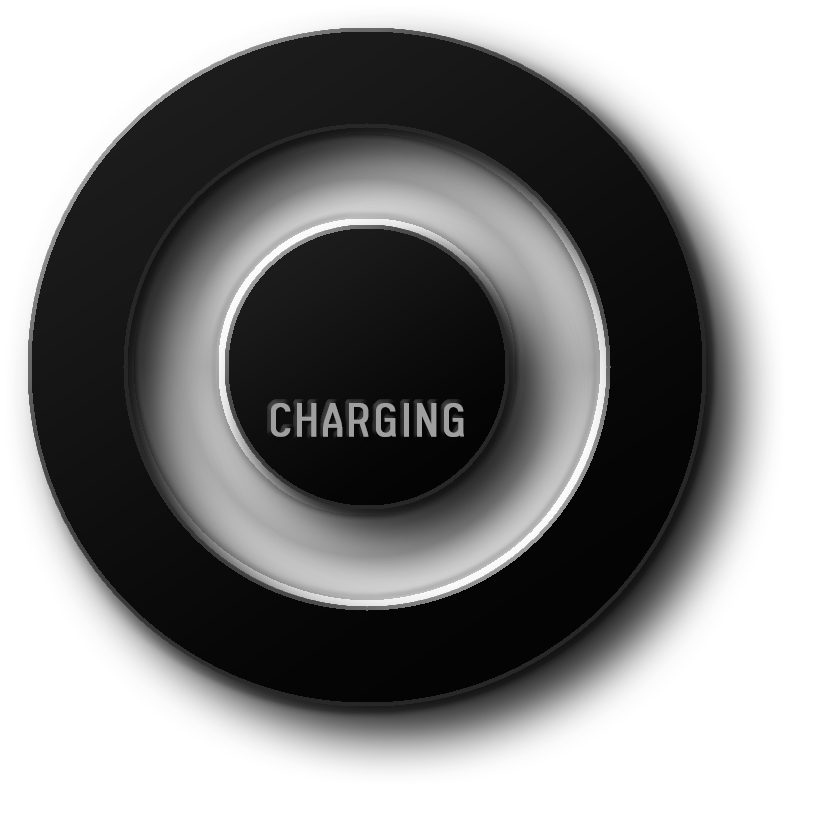
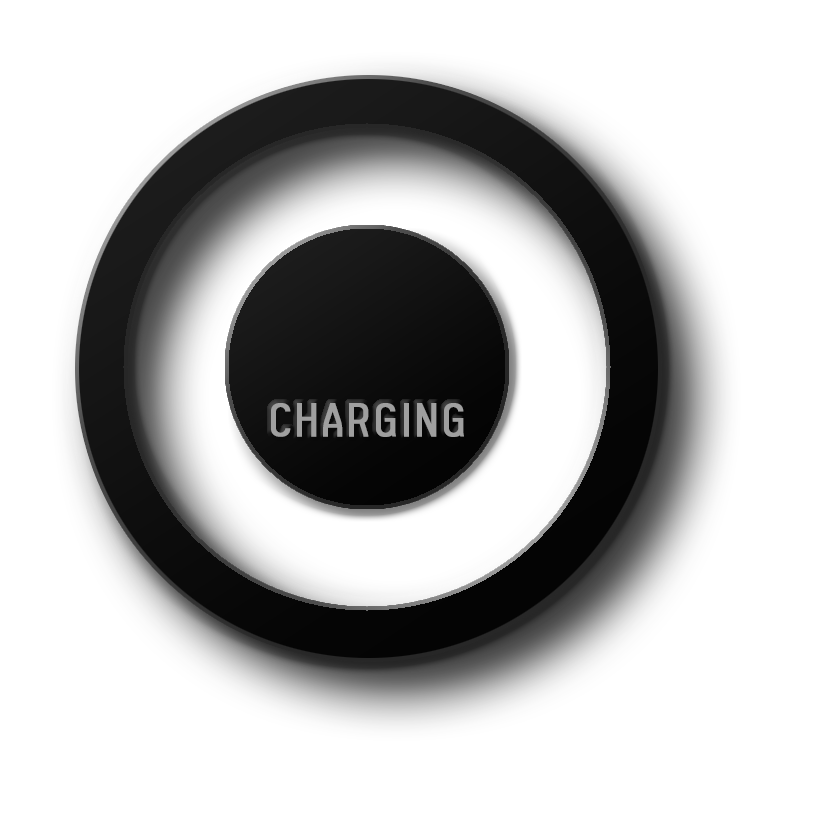
REFACTOR backend-initiated communication to be widget/feature agnostic. Backend now only forwards TwitchEvents, all widget specific business-logic resides in the widgets themselves.

diff --git a/src/main/resources/static/progress/progress.js b/src/main/resources/static/progress/progress.js
@@ -5,6 +5,8 @@ const STEP_SIZE = 2;
 
 let targetProgress = 0;
 let currentVisualProgress = 0;
+let redeemProgressAmount = 10;
+let bitsProgressAmount = 1;
 
 function updateProgress() {
     if (currentVisualProgress === targetProgress) return;
@@ -18,21 +20,25 @@ function onDashBoardRequest(commandObj) {
     if (commandObj.cmd === 'progress') {
         targetProgress = commandObj.progress !== undefined ? commandObj.progress : targetProgress + commandObj.progressChange;
     }
+    if (commandObj.cmd === 'progressConfig') {
+        redeemProgressAmount = commandObj.redeemProgressAmount;
+        bitsProgressAmount = commandObj.bitsProgressAmount;
+    }
 }
 
 function onTwitchRewardRedeemed(redemptionEvent) {
     if (redemptionEvent.title === 'Charge!') {
-        targetProgress += 10;
+        targetProgress += redeemProgressAmount;
     }
 }
 
 function onTwitchBitsReceived(bitsEvent) {
-    targetProgress+= bitsEvent.bitsUsed;
+    targetProgress+= bitsEvent.bitsUsed*bitsProgressAmount;
 }
 
 function onBackendConnect(connection) {
     connection.subscribe('/topic/object', onDashBoardRequest);
-    connection.subscribe('/topic/twitchRewardRedemptions', onTwitchRewardRedeemed);
+    connection.subscribe('/topic/twitchRewardRedeemed', onTwitchRewardRedeemed);
     connection.subscribe('/topic/twitchBitsReceived', onTwitchBitsReceived);
 }
 

diff --git a/src/main/resources/static/progress/progressCP.html b/src/main/resources/static/progress/progressCP.html
@@ -20,12 +20,19 @@
         <form>
             <table>
                 <tr>
-                    <td>Bits</td>
+                    <td>Redeem Progress</td>
+                    <td><input type="text" id="redeemProgressAmount" value="10" style="width: 70px;"></td>
+                    </tr><tr>
+                    <td>Bits Progress</td>
+                    <td><input type="text" id="bitsProgressAmount" value="1" style="width: 70px;"></td>
+                    </tr><tr>
+                    <td>Progress</td>
                     <td><input type="text" id="progressValue" value="50" style="width: 70px;"></td>
                 </tr>
             </table>
             <button id="setProgress">set progress</button>
-            <button id="changeProgress">change progress</button>
+            <button id="changeProgress">change progress</button><br>
+            <button id="applyConfiguration">apply configuration</button>
         </form>
     </body>
 </html>

diff --git a/src/main/resources/static/progress/progressCP.js b/src/main/resources/static/progress/progressCP.js
@@ -14,6 +14,14 @@ function changeProgress() {
     });
 };
 
+function applyConfiguration() {
+    send({
+        cmd: 'progressConfig', 
+        redeemProgressAmount: parseInt($("#redeemProgressAmount").val()), 
+        bitsProgressAmount: parseInt($("#bitsProgressAmount").val())  
+    });
+}
+
 function send(object) {
     connection.sendObject("/app/object", object);
 }
@@ -25,4 +33,5 @@ $(function () {
     });
     $( "#setProgress" ).click(function() { setProgress(); });
     $( "#changeProgress" ).click(function() { changeProgress(); });
+    $( "#applyConfiguration" ).click(function() { applyConfiguration(); });
 });

diff --git a/src/main/resources/static/raidVote/raidVote.js b/src/main/resources/static/raidVote/raidVote.js
@@ -121,8 +121,19 @@ function onMessageReceived(message) {
     }
 }
 
+let validChannelNameRegEx = new RegExp('[A-Za-z0-9_]{3,25}');
+
+function onTwitchRewardRedeemed(redemptionEvent) {
+    if (redemptionEvent.title === 'RaidVote') {
+        if (validChannelNameRegEx.test(redemptionEvent.userInput)) {
+            addChannelVotes(redemptionEvent.userInput, 1);
+        }
+    }
+}
+
 function onBackendConnect(connection) {
     connection.subscribe('/topic/object', onMessageReceived);
+    connection.subscribe('/topic/twitchRewardRedeemed', onTwitchRewardRedeemed);
 }
 
 $(function () {

diff --git a/src/main/resources/static/wiggles/wiggles.js b/src/main/resources/static/wiggles/wiggles.js
@@ -27,8 +27,15 @@ function onMessageReceived(message) {
             changeWiggles(message.change);
 }
 
+function onTwitchRewardRedeemed(redemptionEvent) {
+    if (redemptionEvent.title === 'Wiggle your back') {
+        changeWiggles(1);
+    }
+}
+
 function onBackendConnect(connection) {
     connection.subscribe('/topic/object', onMessageReceived);
+    connection.subscribe('/topic/twitchRewardRedeemed', onTwitchRewardRedeemed);
 }
 
 $(function () {

diff --git a/src/main/resources/static/chaosSweaper/board.js b/src/main/resources/static/chaosSweaper/board.js
@@ -200,8 +200,13 @@ function onCommandReceived(commandObj) {
     }
 }
 
+function onTwitchRewardRedeemed(redemptionEvent) {
+    voteForAction(redemptionEvent.title);
+}
+
 function onBackendConnect(connection) {
     connection.subscribe('/topic/object', onCommandReceived);
+    connection.subscribe('/topic/twitchRewardRedeemed', onTwitchRewardRedeemed);
 }
 
 $(function () {

diff --git a/src/main/resources/static/shillBoard/guess.js b/src/main/resources/static/shillBoard/guess.js
@@ -77,8 +77,13 @@ function onMessageReceived(message) {
     }
 }
 
+function onTwitchBitsReceived(bitsEvent) {
+    guess(bitsEvent.bitsUsed);
+}
+
 function onBackendConnect(connection) {
     connection.subscribe('/topic/object', onMessageReceived);
+    connection.subscribe('/topic/twitchBitsReceived', onTwitchBitsReceived);
 }
 
 $(function () {

diff --git a/src/main/resources/static/progress/progress.css b/src/main/resources/static/progress/progress.css
@@ -9,7 +9,7 @@
     position: absolute;
     width: 835px;
     height: 830px;
-    background-image: url('Loading2.png');
+    background-image: url('Loading.png');
     z-index: 3;
 }
 

diff --git a/src/main/java/net/erstschlag/playground/games/board/generic/GenericBoardService.java b/src/main/java/net/erstschlag/playground/games/board/generic/GenericBoardService.java
@@ -19,46 +19,12 @@ public class GenericBoardService {
 
     @EventListener
     public void rewardRedeemed(RewardRedeemedEvent twitchEvent) {
-        webSocket.convertAndSend("/topic/twitchRewardRedemptions", twitchEvent);
+        webSocket.convertAndSend("/topic/twitchRewardRedeemed", twitchEvent);
     }
     
     @EventListener
     public void bitsReceived(ChannelBitsEvent twitchEvent) {
         webSocket.convertAndSend("/topic/twitchBitsReceived", twitchEvent);
     }
-    
-    @EventListener
-    public void boardAction(RewardRedeemedEvent twitchEvent) {
-        webSocket.convertAndSend("/topic/object", "{\"cmd\":\"chaosBoardAction\", \"action\":\"" + twitchEvent.getTitle() + "\"}");
-    }
 
-    @EventListener
-    public void bitsEvent(ChannelBitsEvent twitchEvent) {
-        webSocket.convertAndSend("/topic/object", "{\"cmd\":\"guess\", \"number\":" + twitchEvent.getBitsUsed() + "}");
-    }
-
-    @EventListener(condition = "#twitchEvent.title eq 'Wiggle your back'")
-    public void wiggleEvent(RewardRedeemedEvent twitchEvent) {
-        String user = "anonymous";
-        if (twitchEvent.getUser().isPresent()) {
-            user = twitchEvent.getUser().get().getName();
-        }
-        webSocket.convertAndSend("/topic/object", "{\"cmd\":\"wiggle\", \"change\":1, \"userName\":\"" + user + "\"}");
-    }
-
-    @EventListener(condition = "#twitchEvent.title eq 'RaidVote'")
-    public void raidVote(RewardRedeemedEvent twitchEvent) {
-        String user = "anonymous";
-        if (twitchEvent.getUser().isPresent()) {
-            user = twitchEvent.getUser().get().getName();
-        }
-        int amount = 1;
-        if(twitchEvent.getUser().isPresent() && twitchEvent.getUser().get().getShillings() > 0) {
-            amount = 2;
-        }
-        String userInput = twitchEvent.getUserInput();
-        if (userInput.matches("[A-Za-z0-9_]{3,25}")) {
-            webSocket.convertAndSend("/topic/object", "{\"cmd\":\"raidVote\", \"channelName\":\"" + userInput.toLowerCase() + "\", \"amount\": " + amount + ", \"userName\":\"" + user + "\"}");
-        }
-    }
 }
